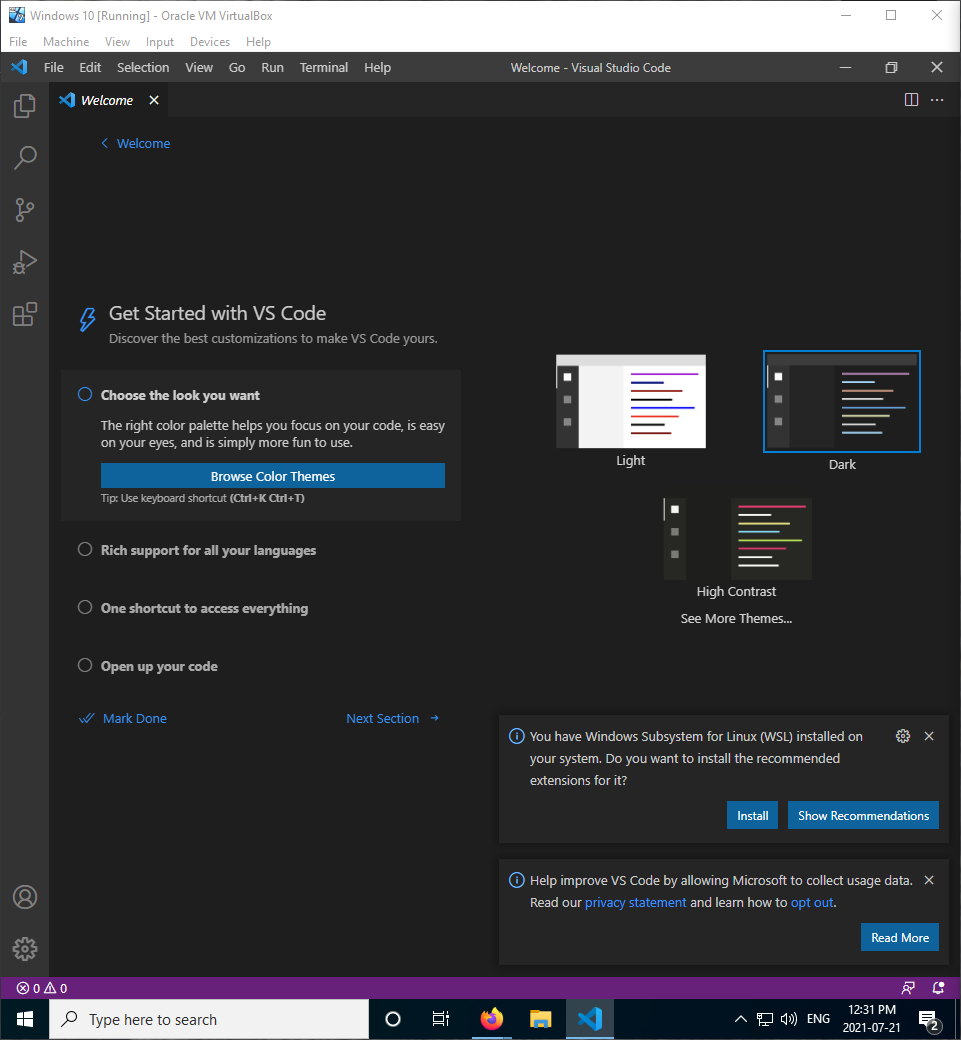
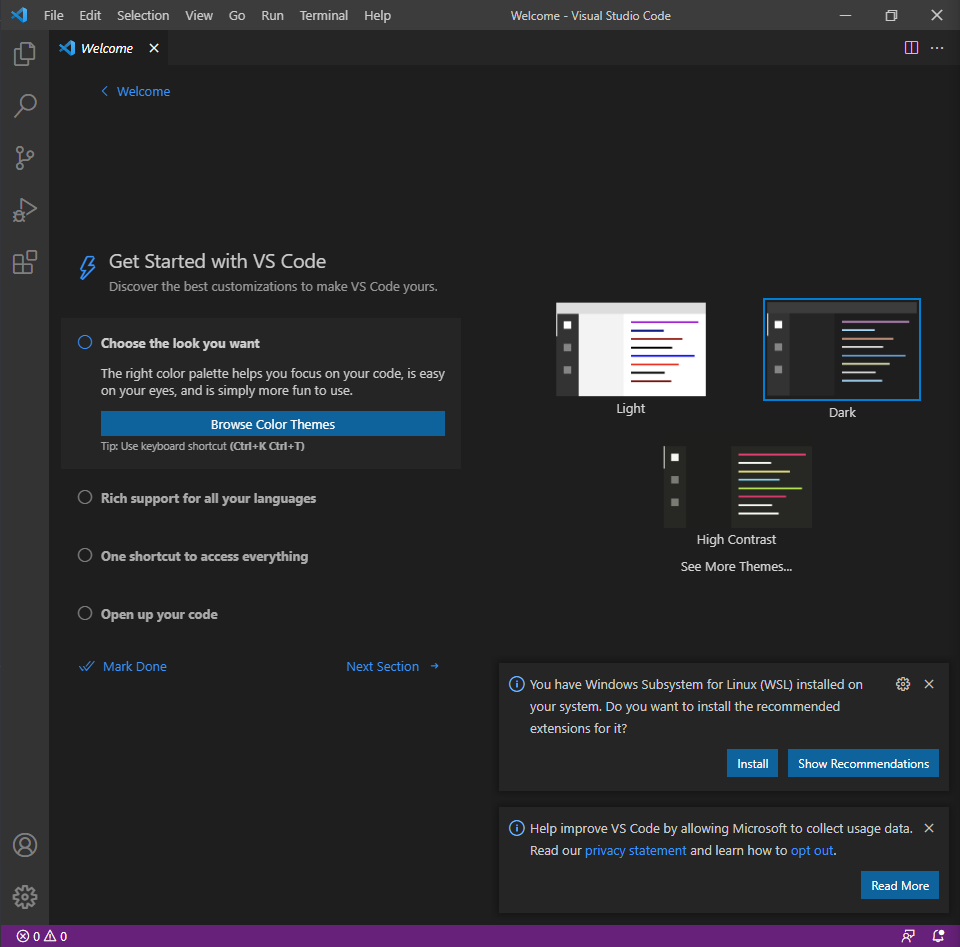
Removed superflous steps, cropped screenshots

diff --git a/README.md b/README.md
@@ -222,118 +222,73 @@ application_folder
 
 #### Installing Android Studio and setting up an Android Virtual Device (AVD)
 
-Visit the Android Studio webpage and click "Download Android Studio"
+##### Visit the Android Studio webpage and click "Download Android Studio"
 ![](assets/IDE-setup/IDE1.png)
 
-Agree to the license terms
-![](assets/IDE-setup/IDE2.png)
-
-Save the installer .exe
-![](assets/IDE-setup/IDE3.png)
-
-Run the installer once it's downloaded:
-![](assets/IDE-setup/IDE4.png)
-
-Proceed through the setup screens:
-![](assets/IDE-setup/IDE5.png)
-
-Ensure that Android Virtual Device is included with the installation:
+##### Ensure that Android Virtual Device is included with the installation:
 ![](assets/IDE-setup/IDE6.png)
 
-Choose the install destination:
-![](assets/IDE-setup/IDE7.png)
-![](assets/IDE-setup/IDE8.png)
-![](assets/IDE-setup/IDE9.png)
-![](assets/IDE-setup/IDE10.png)
-
-Allow the wizard to complete the installation process:
-![](assets/IDE-setup/IDE11.png)
-
-Choose whether to import a settings config file (we will choose not to import if this is a new install):
-![](assets/IDE-setup/IDE12.png)
-
-Accept or decline the data sharing policy:
-![](assets/IDE-setup/IDE13.png)
+##### Set up a new Android Virtual Device:
 ![](assets/IDE-setup/IDE14.png)
 
-Choose the "Standard" installation type:
-![](assets/IDE-setup/IDE15.png)
-![](assets/IDE-setup/IDE16.png)
-![](assets/IDE-setup/IDE17.png)
-
-When the install is finished, click the configure button in the bottom right and select the "AVD Manager":
+##### When the install is finished, click the configure button in the bottom right and select the "AVD Manager":
 ![](assets/IDE-setup/IDE18.png)
 
-Click on "Create Virtual Device"
+##### Click on "Create Virtual Device"
 ![](assets/IDE-setup/IDE19.png)
 
-Select a piece of hardware to emulate (recommend to choose a device like the Pixel 4 or similar):
+##### Select a piece of hardware to emulate (recommend to choose a device like the Pixel 4 or similar):
 ![](assets/IDE-setup/IDE20.png)
 
-Choose a build of Android to be installed:
+##### Choose a build of Android to be installed:
 ![](assets/IDE-setup/IDE22.png)
 
-Verify the AVD's configuration:
+##### Verify the AVD's configuration:
 ![](assets/IDE-setup/IDE23.png)
 
-You will now see the device added to your list of available devices, click on the green arrow icon if you want to launch the AVD now:
+##### You will now see the device added to your list of available devices, click on the green arrow icon if you want to launch the AVD now:
 ![](assets/IDE-setup/IDE24.png)
 
 #### Installing Flutter:
 
-Download Flutter from the official webpage:
+##### Download Flutter from the official webpage:
 ![](assets/IDE-setup/IDE25.png)
 
-Click on the button with the link to the latest SDK:
+##### Click on the button with the link to the latest SDK:
 ![](assets/IDE-setup/IDE26.png)
 
-Save the ZIP file to your machine:
-![](assets/IDE-setup/IDE27.png)
-
-Exctract the flutter folder to a location on your machine (recommended: a folder in the root of your C: drive):
-![](assets/IDE-setup/IDE28.png)
+##### Extract the flutter folder to a location on your machine (recommended: a folder in the root of your C: drive):
 ![](assets/IDE-setup/IDE29.png)
 
-With the files copied, we now need to add Flutter to the system's PATH, first look up "environment" in the Start menu, and open "Edit the system environment variables" control panel:
+##### With the files copied, we now need to add Flutter to the system's PATH, first look up "environment" in the Start menu, and open "Edit the system environment variables" control panel:
 ![](assets/IDE-setup/IDE30.png)
 
-Click on "Environment Variables...":
+##### Click on "Environment Variables...":
 ![](assets/IDE-setup/IDE31.png)
 
-Select "Path" in the top panel and click on "Edit":
+##### Select "Path" in the top panel and click on "Edit":
 ![](assets/IDE-setup/IDE32.png)
 
-Click on "New":
+##### Click on "New":
 ![](assets/IDE-setup/IDE33.png)
 
-Add the path to the flutter\bin directory and click "OK"
-![](assets/IDE-setup/IDE34.png)
+##### Add the path to the flutter\bin directory and click "OK" and restart your computer:
 ![](assets/IDE-setup/IDE35.png)
 
-
 #### Installing VSCode:
-
-Download VSCode from the Official Webpage:
+##### Download VSCode from the Official Webpage:
 ![](assets/IDE-setup/IDE36.png)
-![](assets/IDE-setup/IDE37.png)
 
-Open the installer and click through the dialog boxes:
-![](assets/IDE-setup/IDE38.png)
-![](assets/IDE-setup/IDE39.png)
-
-Ensure that you check "Add to PATH":
+##### Open the installer and click through the dialog boxes, ensure that you check "Add to PATH":
 ![](assets/IDE-setup/IDE40.png)
-![](assets/IDE-setup/IDE41.png)
-![](assets/IDE-setup/IDE42.png)
-![](assets/IDE-setup/IDE43.png)
-![](assets/IDE-setup/IDE44.png)
+
+##### VSCode Home Screen:
 ![](assets/IDE-setup/IDE45.png)
 
-With the setup complete, navigate to the "Add-Ons" pane by clicking the icon on the right:
+##### With the setup complete, navigate to the "Add-Ons" pane by clicking the icon in left sidebar:
 ![](assets/IDE-setup/IDE46.png)
 
-Search for and install the Flutter plugin:
-![](assets/IDE-setup/IDE47.png)
+##### Search for and install the Flutter plugin:
 ![](assets/IDE-setup/IDE48.png)
 
 
